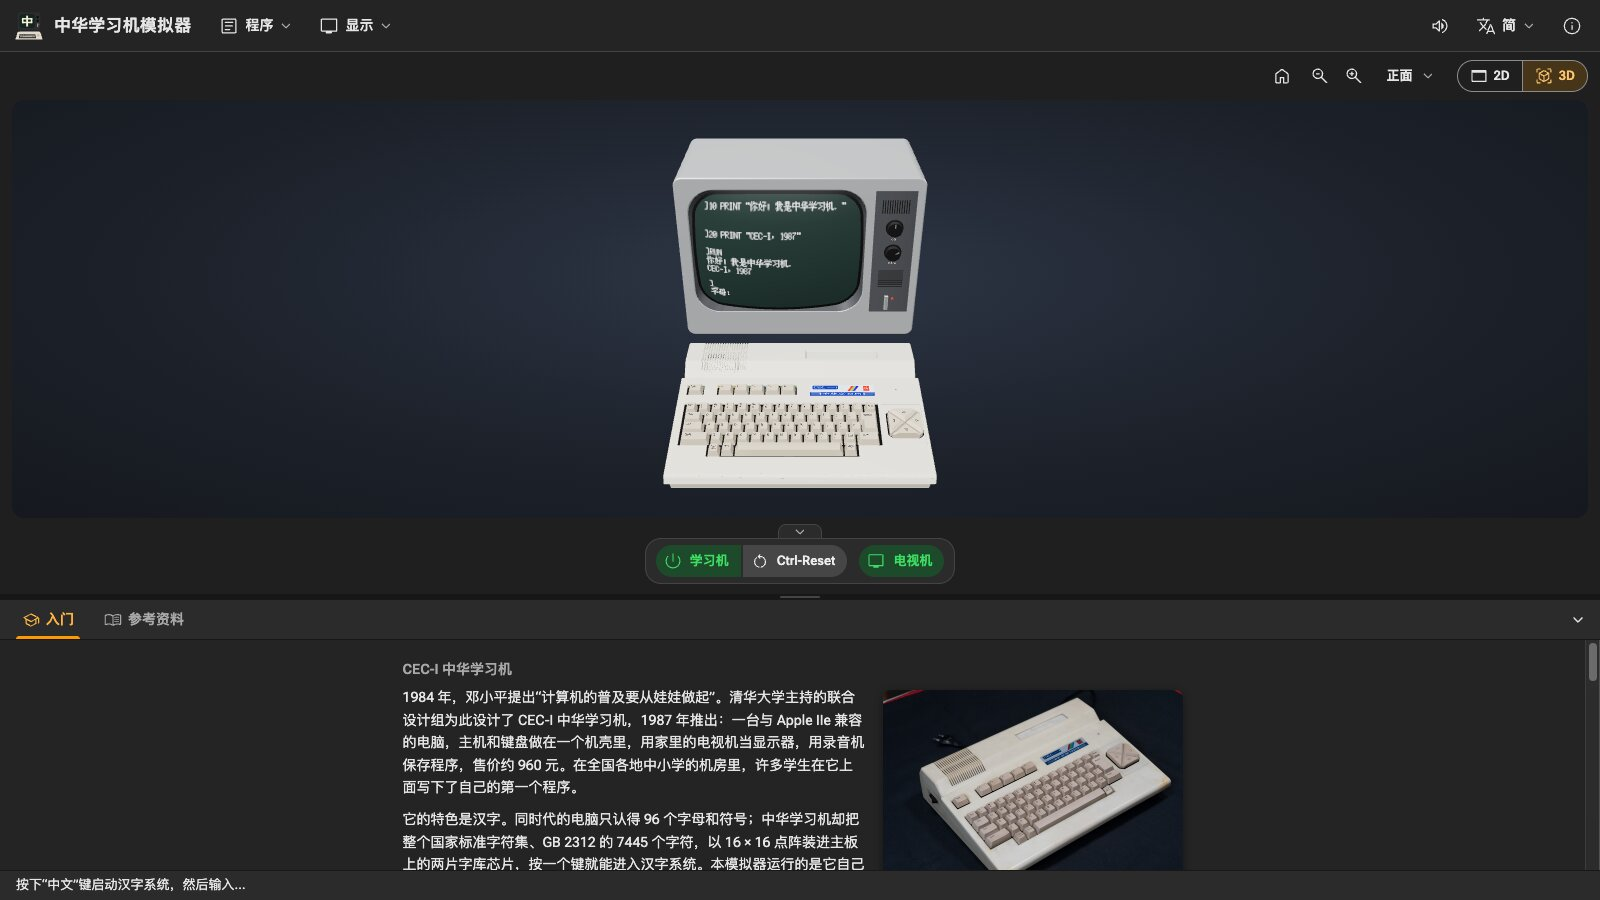
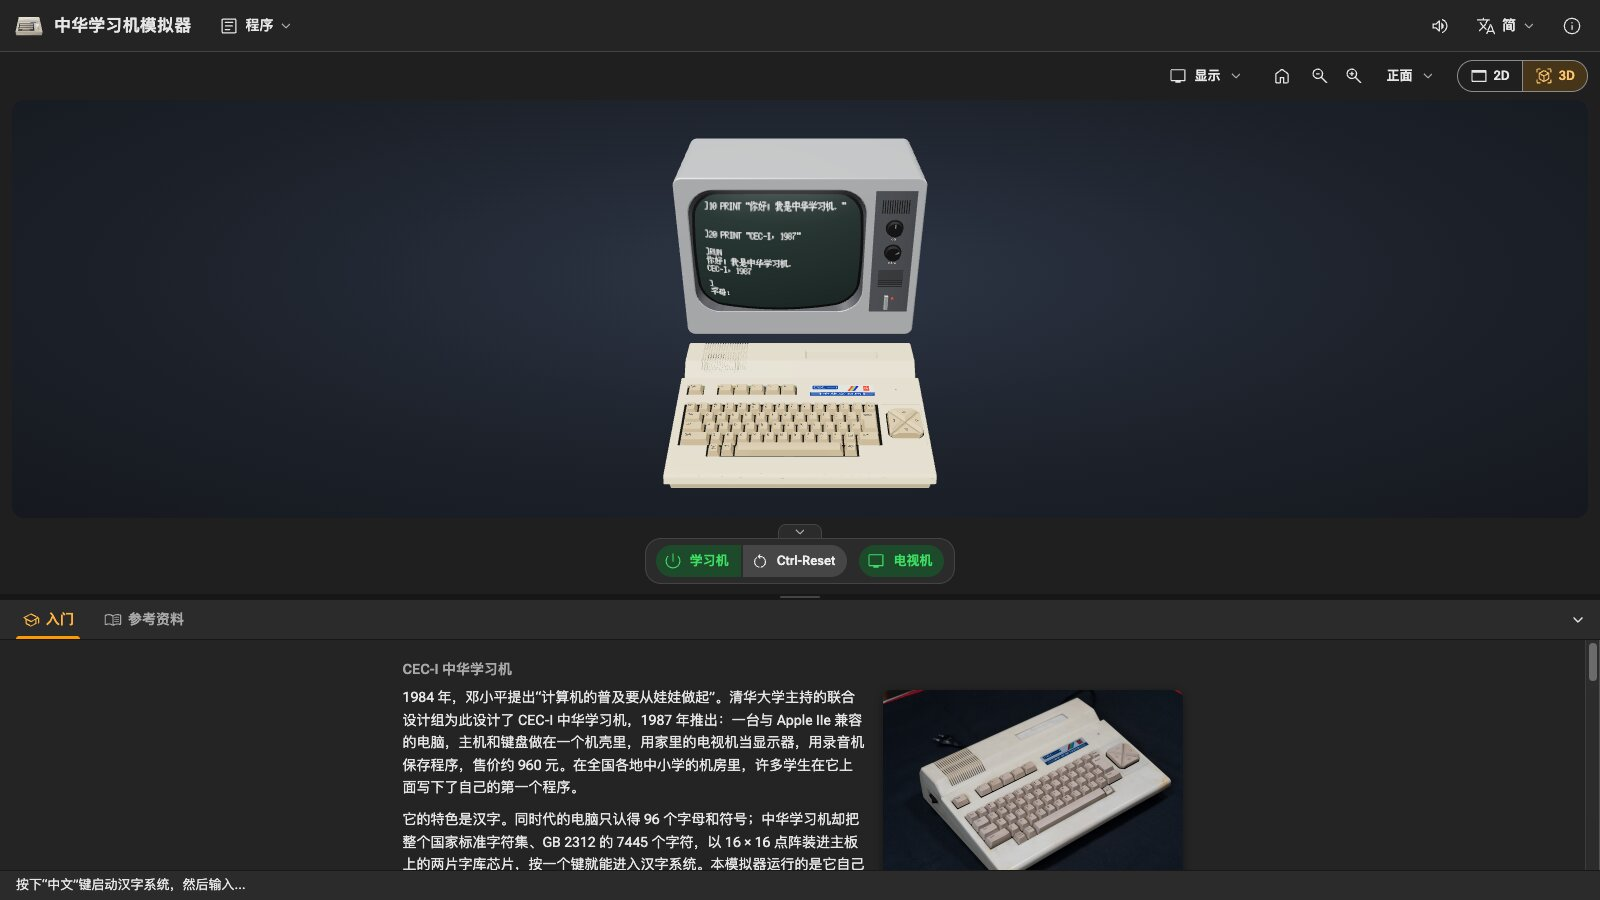
The case as found today (yellowed) by default
The yellowed plastic, keys and stickers are how the machine looks to today's
visitors, and warmer beside the silver-grey TV. As new stays one choice away in
Display; a visitor's choice is still remembered. U8 and privacy.md updated; the
README screenshot retaken; a browser check that the case starts as found.

diff --git a/js/app/topbar.js b/js/app/topbar.js
@@ -87,8 +87,8 @@ export class TopBar {
   constructor(system, o) {
     this.system = system;
     this.o = o;
-    /** The case as found (yellowed), or as new. */
-    this.found = load(FINISH_STORE) === "found";
+    /** The case as found (yellowed, as the machine looks today: the default), or as new. */
+    this.found = load(FINISH_STORE) !== "new";
     const programs = /** @type {HTMLButtonElement} */ (document.getElementById("programs"));
     const display = /** @type {HTMLButtonElement} */ (document.getElementById("display"));
     const about = /** @type {HTMLButtonElement} */ (document.getElementById("about"));

diff --git a/docs/ui-design.md b/docs/ui-design.md
@@ -154,7 +154,7 @@ All three need the computer on, and say so.
 ### U8. The top bar
 
 - **Left (the machine):** the logo and the title; **Programs** (U7).
-- **Display**, not in the top bar but at the band's left, beside the views, as it changes what is seen: the set the computer is plugged into (a colour TV, a black-and-white TV, a green monitor, D6), and the case as new or as found (the plastic, the keys and the stickers yellowed together). Both remembered. A finish chosen while the computer is out of sight brings it into sight (the 2D view's keyboard drawer opened; in 3D, the front view if the screen's was on show), so that the choice is seen to do something.
+- **Display**, not in the top bar but at the band's left, beside the views, as it changes what is seen: the set the computer is plugged into (a colour TV, a black-and-white TV, a green monitor, D6), and the case as found today (the plastic, the keys and the stickers yellowed together: the default, as the machine looks to today's visitors) or as new. Both remembered. A finish chosen while the computer is out of sight brings it into sight (the 2D view's keyboard drawer opened; in 3D, the front view if the screen's was on show), so that the choice is seen to do something.
 
 *Found in v0.0.1's check:* Display in the top bar read as one of the machine's programs' menus, and the finish chosen in 2D, the drawer closed, changed nothing visible.
 - **Right (the app):** **Sound** (a speaker icon, crossed out while off; remembered), the **language** (U11), then **About**.

diff --git a/docs/privacy.md b/docs/privacy.md
@@ -16,6 +16,6 @@ The simulator runs entirely in your browser. It has no server of its own beyond 
 | `ceci.strip` | the helper strip folded or not |
 | `ceci.drawer` | the 2D view's keyboard drawer open or closed |
 | `ceci.display` | the set the computer is plugged into (colour TV, black-and-white TV, green monitor) |
-| `ceci.finish` | the case as new or as found |
+| `ceci.finish` | the case as found (the default) or as new |
 
 Nothing else: the machine's memory is not kept, and is gone when the page closes (design/decisions.md, D10). Clearing this site's data in your browser forgets all of it. In a private window, or with site data blocked, nothing is kept and the page works the same.
